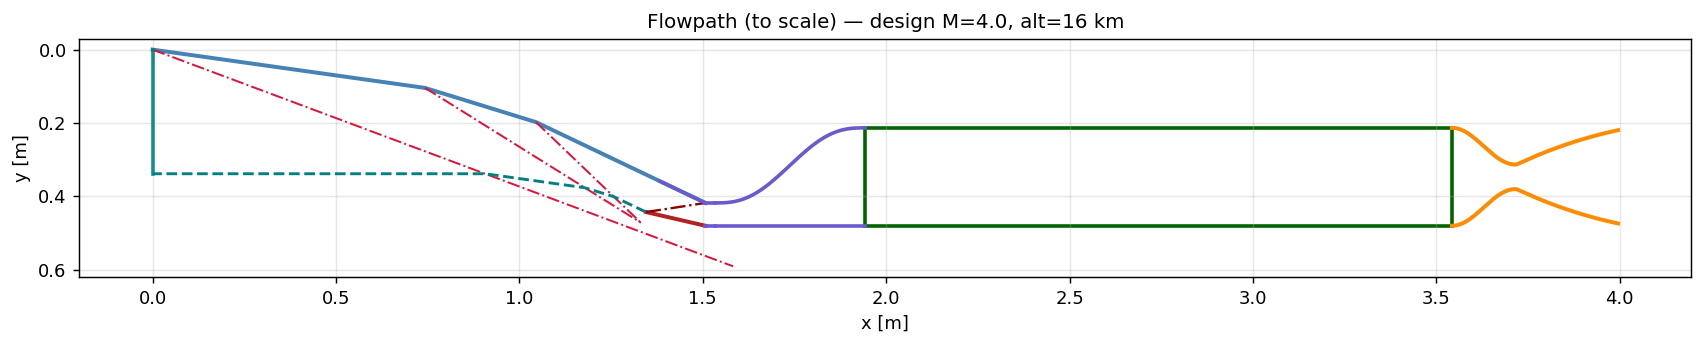
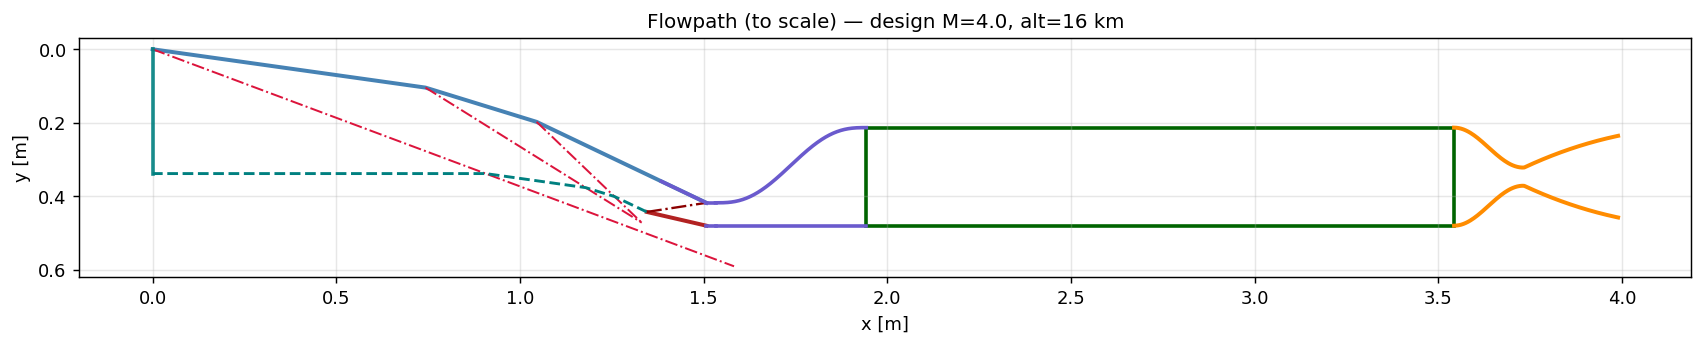
asdfasd

diff --git a/402 - optimizer rewrite/combined_cycle_liquid_ram_scram/plots_pycycle.py b/402 - optimizer rewrite/combined_cycle_liquid_ram_scram/plots_pycycle.py
@@ -2112,6 +2112,7 @@ def main():
         M, PHI_SCHEDULE_M_LO, PHI_SCHEDULE_M_HI,
         PHI_SCHEDULE_PHI_LO, PHI_SCHEDULE_PHI_HI,
     )
+    """
     mach_range = np.linspace(max(M_MIN, 4.0), min(M_MAX, 5.0), 25)
     phi_command_array = np.array([phi_schedule_fn(M) for M in mach_range])
     print(f'  Mach sweep over {len(mach_range)} points '
@@ -2121,7 +2122,7 @@ def main():
     results = mach_sweep(mach_range, altitude=sweep_altitude_m,
                          phi=phi_command_array, alpha_deg=sweep_alpha_deg)
 
-    """
+    
 
 
     # Altitude sweep: ±2 km around design altitude, M0 and α frozen at design.
@@ -2161,7 +2162,7 @@ def main():
         phi_mach_range, phi_alt_range,
         alpha_deg=INLET_DESIGN_ALPHA_DEG, phi=PHI_DEFAULT,         ########################
     )
-    """
+    
 
     print('\n  writing figures:')
     fig_flowpath(
@@ -2197,7 +2198,7 @@ def main():
                              altitude_m=sweep_altitude_m,
                              alpha_deg=sweep_alpha_deg,
                              phi_command=phi_command_array)
-
+    """
 
     """
     fig_performance_vs_alt(
@@ -2218,6 +2219,7 @@ def main():
         alpha_deg=INLET_DESIGN_ALPHA_DEG, phi_request=PHI_DEFAULT,
     )
     """
+    """
     fig_mass_flows(results, mach_range)
     fig_station_T(results, mach_range)
     fig_station_Pt(results, mach_range)
@@ -2226,7 +2228,7 @@ def main():
 
     fig_engine_pressure_profile(design, design_cycle)
     fig_engine_temperature_profile(design, design_cycle)
-    
+    """
 
 
     print(f'\n  generating 3D CAD model (wall={cad_wall_thickness_m*1e3:.1f} mm) ...')

diff --git a/402 - optimizer rewrite/combined_cycle_liquid_ram_scram/pyc_config.py b/402 - optimizer rewrite/combined_cycle_liquid_ram_scram/pyc_config.py
@@ -206,7 +206,7 @@ DIFFUSER_MIN_SHOCK_ACCOMMODATION_DH = 2.5
 
 COMBUSTOR_LENGTH_M_DEFAULT = 1.6
 COMBUSTOR_WIDTH_M_DEFAULT  = 0.35
-NOZZLE_AR                = 3.8  # nozzle Ae/At committed design knob
+NOZZLE_AR                = 4.5  # nozzle Ae/At committed design knob
 NOZZLE_AR_DEFAULT        = NOZZLE_AR   # legacy alias
 
 # Vertical offset (in plot/data y) applied to the combustor + nozzle relative
@@ -259,7 +259,7 @@ ENGINE_MIN_THRUST_N         = 6_000.0
 # 1.0 → shock at throat (weak, least diffusion, safest start margin).
 # 0.7 is a conservative design-intent default — weak shock near throat,
 # mimicking typical started-mode operation.
-PS3_BIAS = 0.6
+PS3_BIAS = 0.9
 
 
 #0.14 m^3

diff --git a/402 - optimizer rewrite/combined_cycle_liquid_ram_scram/pyc_run.py b/402 - optimizer rewrite/combined_cycle_liquid_ram_scram/pyc_run.py
@@ -2049,8 +2049,8 @@ if __name__ == '__main__':
 
     from pyc_config import PHI_DEFAULT
 
-    off_design_M0 = 4.8
-    off_design_altitude_m = 18_000.0
+    off_design_M0 = 4.0
+    off_design_altitude_m = 16_000.0
     off_design_alpha_deg = 6
     off_design_phi = PHI_DEFAULT
 